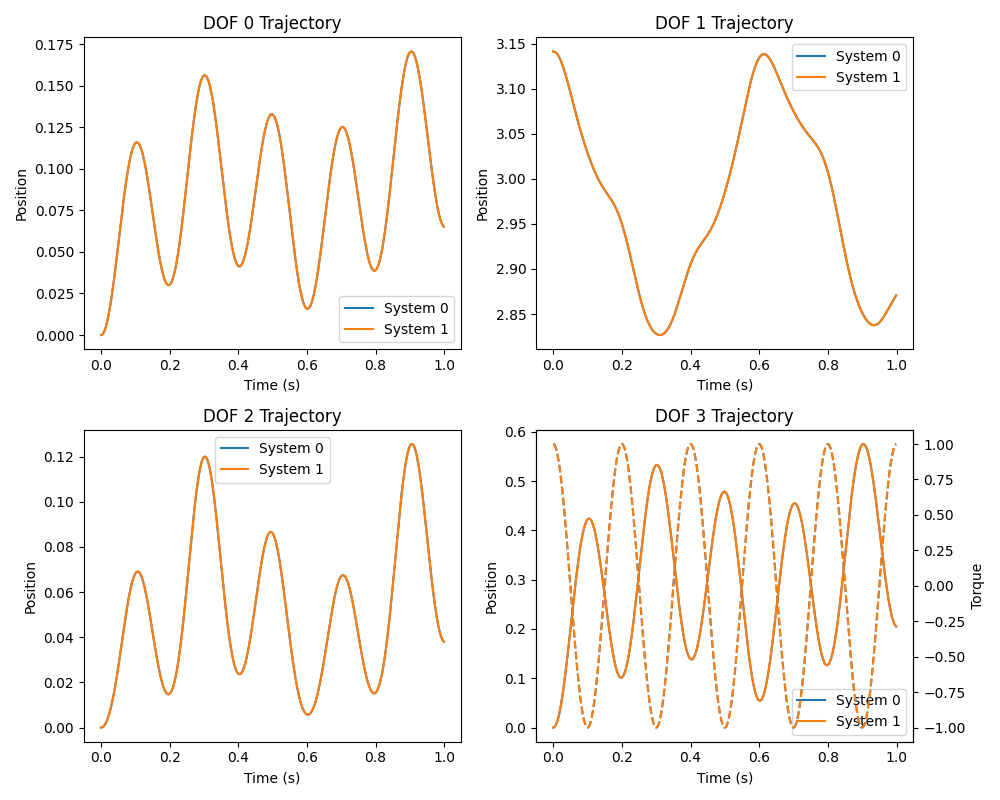
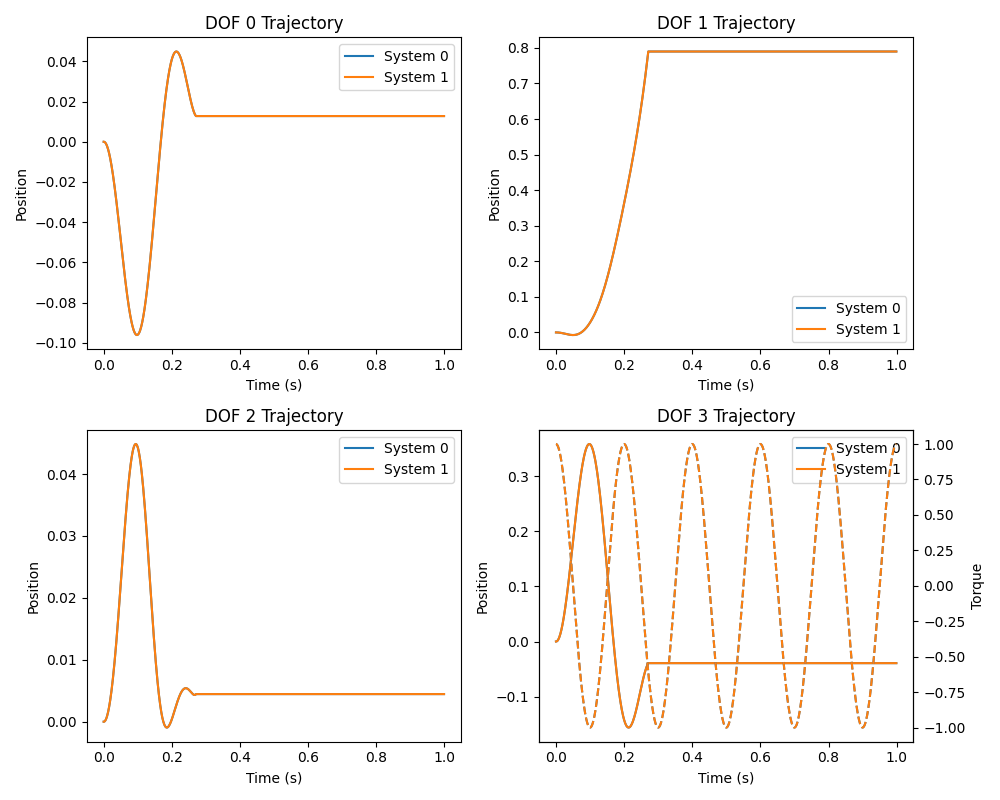
commit trajopt and gradient testing -chris

diff --git a/trajopt/dynamics.py b/trajopt/dynamics.py
@@ -349,13 +349,13 @@ dt.fill(0.001)
 @ti.kernel
 def init():
     for i in range(n_systems):
-        q[0,i] = ti.Vector([0,PI,0,0])
+        q[0,i] = ti.Vector([0,0,0,0])
         q_dot[0,i] = ti.Vector([0,0,0,0])
 
         for t in range(steps):
             tau[t,i] = sin(5 * (t/steps + 0.25) * 2*np.pi)
 
-
+fall_threshold = np.deg2rad(45) #compiled into the kernel
 @ti.kernel
 def simulate_step(t: ti.i32):
     # ti.loop_config(parallelize=1)  #Ensures sequential execution
@@ -370,11 +370,20 @@ def simulate_step(t: ti.i32):
         # print(q[t,i])
 
         
+        # pitch = 
+        # roll = 
+        # is_fallen = 
+        # ti.select(cos(q[t,i][1])*cos(q[t,i][2]) < cos(fall_threshold))
 
 
         q_ddot = M_inv @ (tau_all - C @ q_dot[t,i] - G)
         q_dot[t+1,i] = q_dot[t,i] + q_ddot * dt[i]
-        q[t+1,i] = q[t,i] + q_dot[t,i] * dt[i]
+        # q[t+1,i] = q[t,i] + q_dot[t,i] * dt[i]
+        q[t+1,i] = q[t,i]
+
+        if(cos(q[t,i][1])*cos(q[t,i][2]) > cos(fall_threshold)):
+            q[t+1,i] += q_dot[t,i] * dt[i]
+
 
 @ti.kernel
 def compute_loss():

diff --git a/gpu_accel/DiffTachi/multgrad.py b/gpu_accel/DiffTachi/multgrad.py
@@ -1,0 +1,24 @@
+import taichi as ti
+ti.init()
+N_param = 2
+N_loss = 5
+x = ti.field(dtype=ti.f32, shape=N_param, needs_dual=True)
+y = ti.field(dtype=ti.f32, shape=N_loss, needs_dual=True)
+
+@ti.kernel
+def compute_y():
+    for i in range(N_loss):
+        for j in range(N_param):
+            y[i] += i * ti.sin(x[j])
+
+# Compute derivatives with respect to x_0
+# `seed` is required if `param` is not a scalar field
+with ti.ad.FwdMode(loss=y, param=x, seed=[1.0, 1.0]):
+    compute_y()
+print('dy/dx_0 =', y.dual, ' at x_0 =', x[0])
+
+# Compute derivatives with respect to x_1
+# `seed` is required if `param` is not a scalar field
+with ti.ad.FwdMode(loss=y, param=x, seed=[0.0, 1.0]):
+    compute_y()
+print('dy/dx_1 =', y.dual, ' at x_1 =', x[1])

diff --git a/trajopt/results/visualize.py b/trajopt/results/visualize.py
@@ -214,6 +214,8 @@ def main():
         glVertex3f(0.0, 0.0, 0.0)
         glVertex3f(0.0, 0.0, 0.2)
         glEnd()
+
+        
         
         # Reset material color
         glMaterialfv(GL_FRONT, GL_AMBIENT_AND_DIFFUSE, (0.5, 0.5, 1.0, 1.0))
